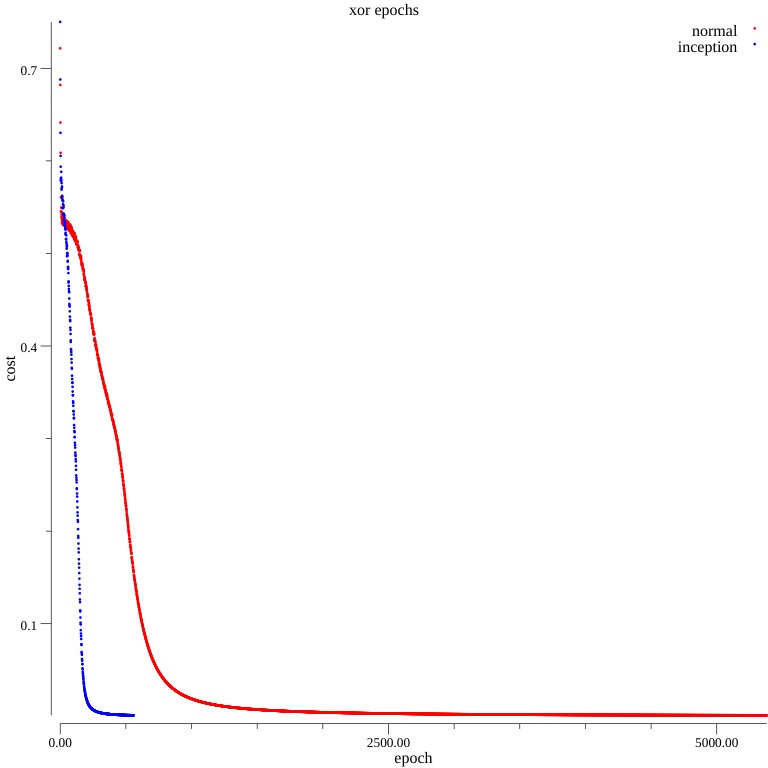
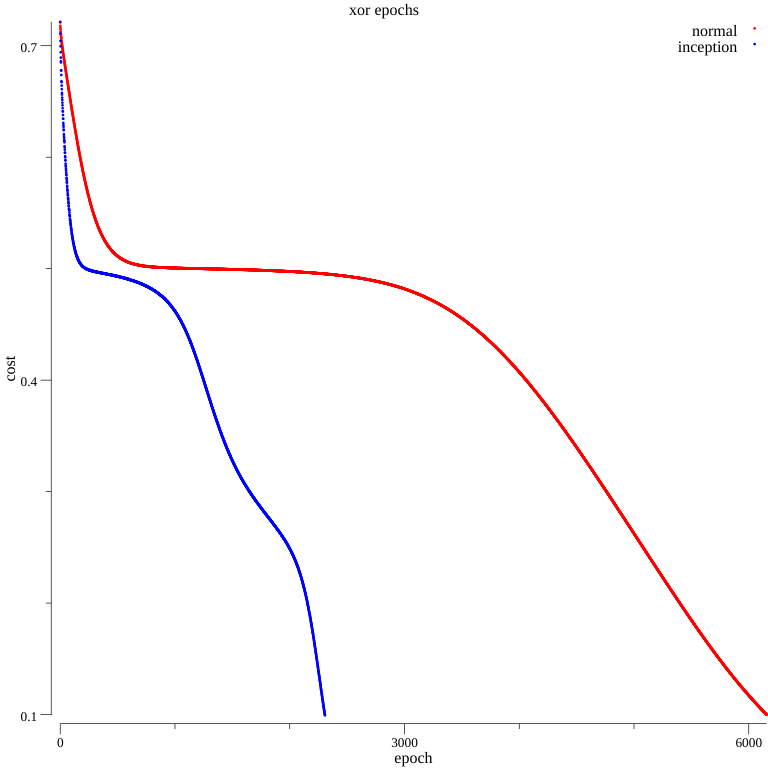
Updated results

diff --git a/README.md b/README.md
@@ -2,7 +2,7 @@
 A normal neural network layer has the form of sigmoid(A\*X + B). This experiment sets A = A<sub>1</sub>\*A<sub>2</sub> + A<sub>3</sub> and B = B<sub>1</sub>\*B<sub>2</sub> + B<sub>3</sub> so that the layer is now of the form sigmoid((A<sub>1</sub>\*A<sub>2</sub> + A<sub>3</sub>)\*X + B<sub>1</sub>\*B<sub>2</sub> + B<sub>3</sub>). This form results in faster convergence, and the terms (A<sub>1</sub>\*A<sub>2</sub> + A<sub>3</sub>) and (B<sub>1</sub>\*B<sub>2</sub> + B<sub>3</sub>) can be compressed down to matrices after training.
 
 ## Results
-This idea has been tested on two problems: xor function and the iris dataset. In repeated experiments the xor function is learned ~8x faster and the iris dataset is learned ~4x faster. The faster learning rate does come at considerable computational cost. The increased rate is likely the result of an interplay between the momentum filters and the network weights.
+This idea has been tested on two problems: xor function and the iris dataset. In repeated experiments the xor function is learned ~4x faster and the iris dataset is learned ~2x faster. The faster learning rate does come at considerable computational cost. The increased rate is likely the result of an interplay between the [adam](https://arxiv.org/abs/1412.6980) filters and the network weights.
 
 Below are example traces of the cost vs epochs for xor and iris:
 
